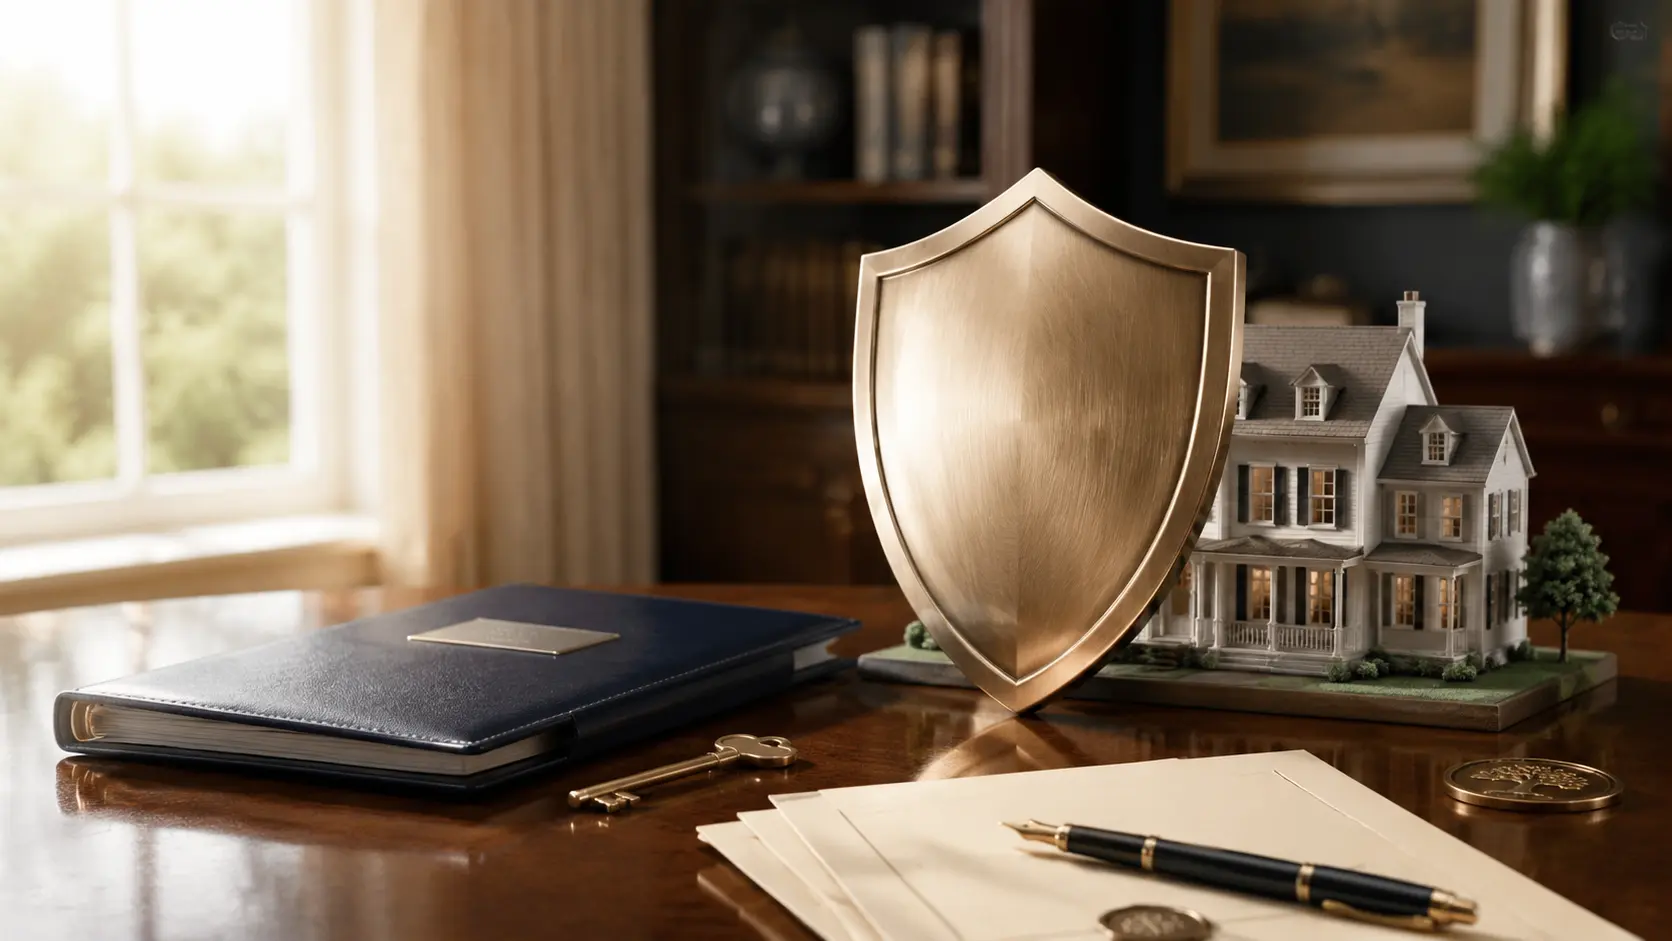
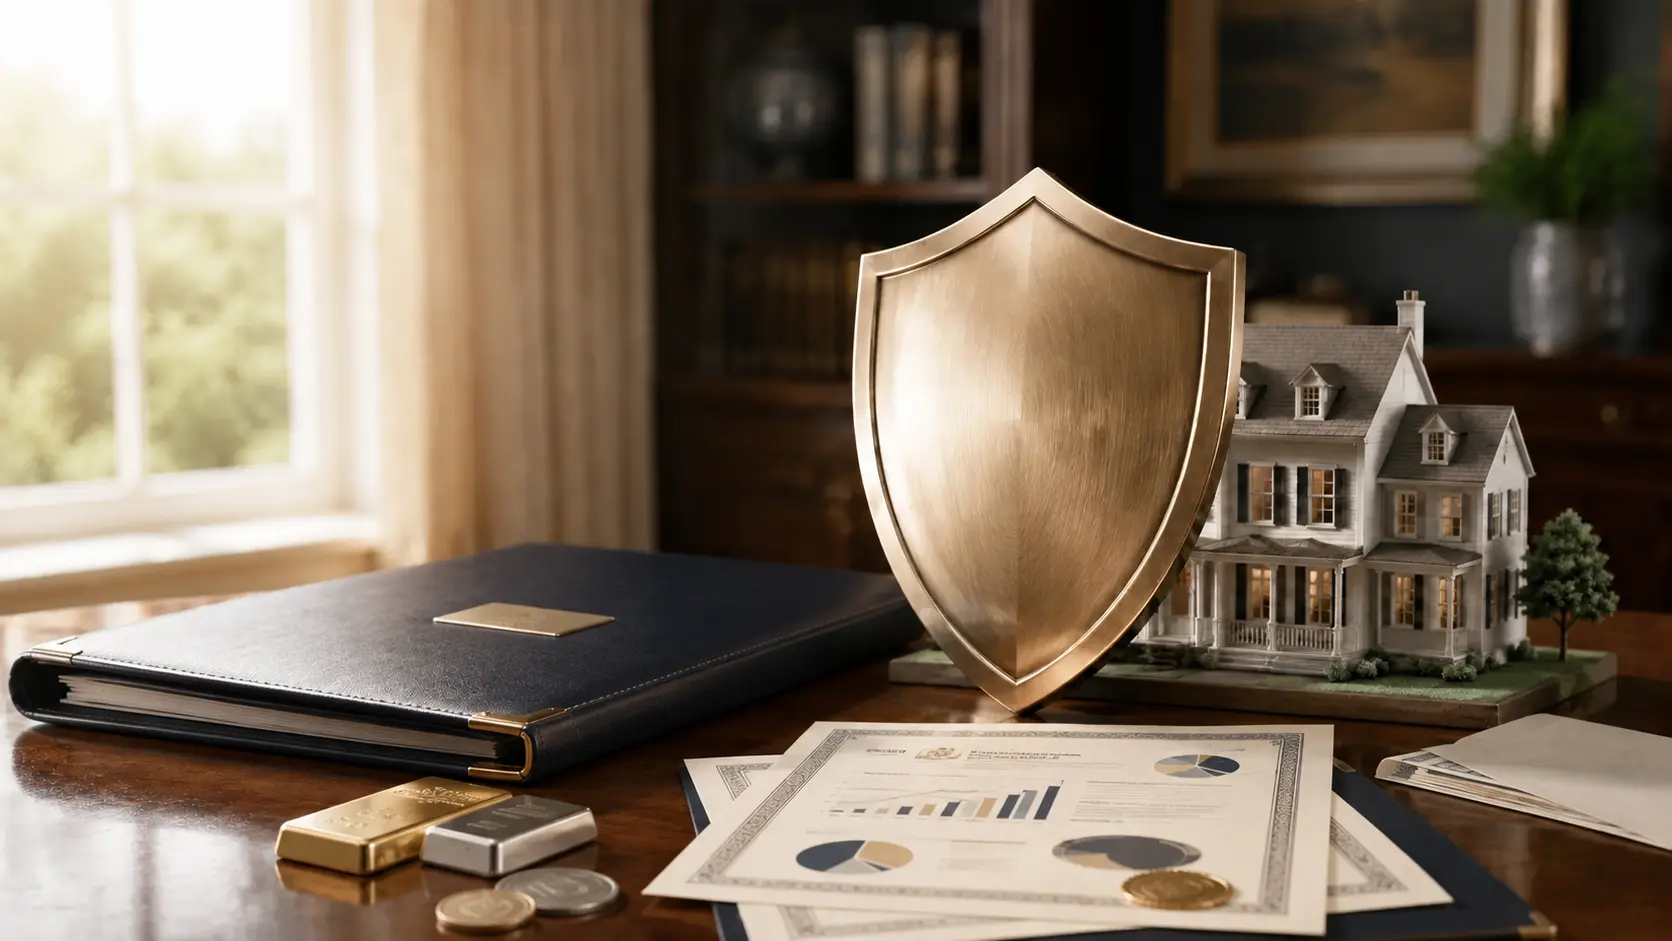
Refine trust protection asset imagery

diff --git a/us-domestic-trusts.html b/us-domestic-trusts.html
@@ -32,7 +32,7 @@
   <main class="corp-page trust-page">
     <section class="corp-hero">
       <div class="corp-hero-copy"><p class="corp-kicker">U.S. Domestic Trust Planning, Done Right.</p><h1>Protect What You’ve Built with a U.S. Domestic Trust</h1><p>We coordinate trust-structure review, asset and ownership mapping, trustee roles, beneficiary provisions, and long-term record readiness with qualified independent professionals.</p><div class="corp-actions"><a class="corp-button primary" href="/#contact">Start Your Trust Plan</a><a class="corp-button secondary" href="/#contact">Schedule a Consultation</a></div></div>
-      <div class="corp-hero-media"><img class="corp-hero-first" src="/us-domestic-trusts-hero.webp" alt="Estate-planning professional meeting with a couple beside organized trust documents, a model home, and a brass key"><img class="corp-hero-second" src="/us-domestic-trusts-protection-hero.webp" alt="Brushed-brass shield protecting a model home beside a trust portfolio, key, and estate-planning documents"></div>
+      <div class="corp-hero-media"><img class="corp-hero-first" src="/us-domestic-trusts-hero.webp" alt="Estate-planning professional meeting with a couple beside organized trust documents, a model home, and a brass key"><img class="corp-hero-second" src="/us-domestic-trusts-protection-hero.webp?v=2" alt="Brushed-brass shield protecting a model home, investment documents, business interests, and restrained gold and silver holdings"></div>
     </section>
     <section class="corp-benefits" aria-label="U.S. domestic trust planning benefits">
       <article><div class="corp-icon" aria-hidden="true"><svg viewBox="0 0 64 64"><path d="M8 55h48M14 50V26l18-14 18 14v24"/><path d="M24 50V36h16v14M20 29h24"/></svg></div><h2>Trust Pathway<br>Review</h2><p>Compare revocable, irrevocable, family, asset-holding, and business-related trust approaches.</p></article>
